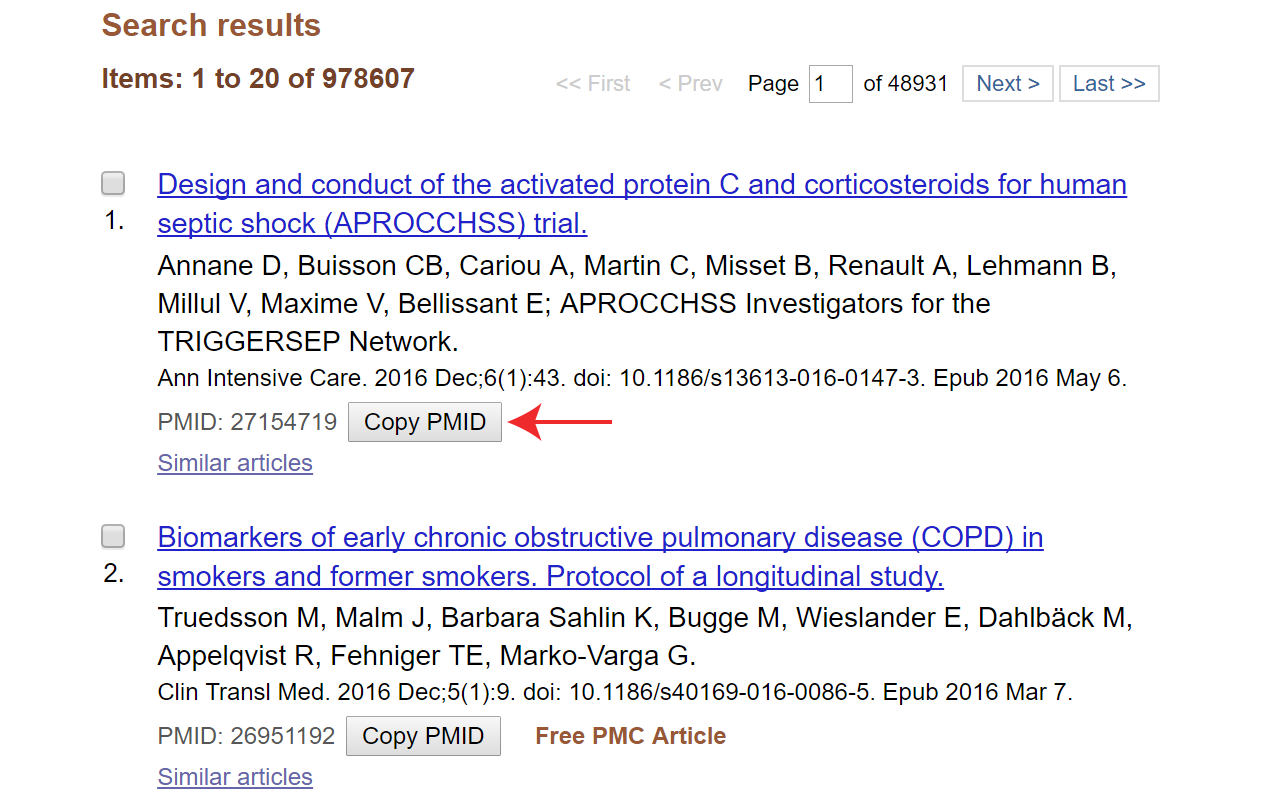
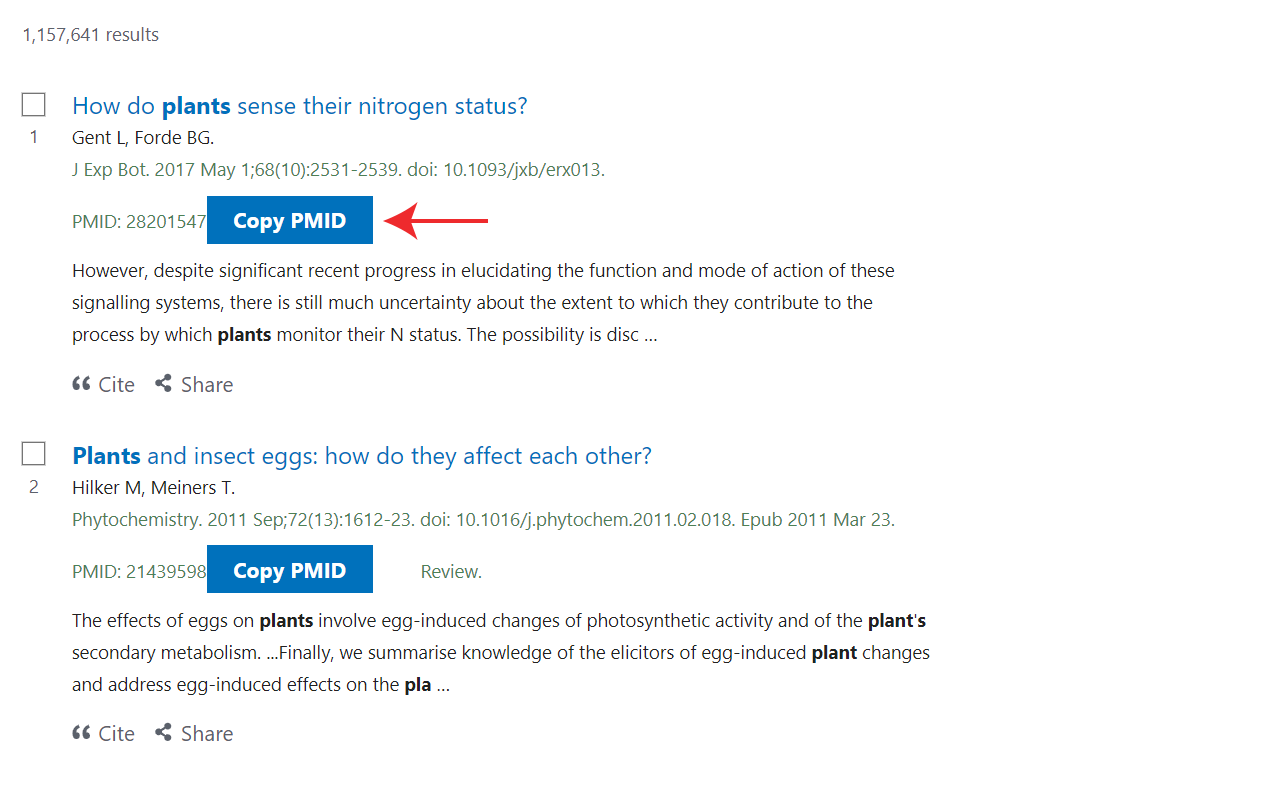
v1.3 update for PubMed refresh

diff --git a/Copy PMID extension/pmid_inject.js b/Copy PMID extension/pmid_inject.js
@@ -2,52 +2,60 @@
  * CopyPMID Chrome Extension
  * Copyright (c) 2012-2016 Tet Woo Lee
  * chrome at twlee dot nz
- * 
+ *
  * This program is free software: you can redistribute it and/or modify
  * it under the terms of the GNU General Public License as published by
  * the Free Software Foundation, either version 3 of the License, or
  * (at your option) any later version.
- * 
+ *
  * This program is distributed in the hope that it will be useful,
  * but WITHOUT ANY WARRANTY; without even the implied warranty of
  * MERCHANTABILITY or FITNESS FOR A PARTICULAR PURPOSE.  See the
  * GNU General Public License for more details.
- * 
+ *
  * You should have received a copy of the GNU General Public License
  * along with this program.  If not, see <http://www.gnu.org/licenses/>.
  */
-
 
 /*
  * Inject a 'Copy PMID' button to PubMed pages.
  */
 
-pmid_items = document.querySelectorAll(".resc:first-child .rprtid");
+pmid_items = Array.prototype.slice
+  .call(
+    document.querySelectorAll(".pubmed.identifier, .resc:first-child .rprtid")
+    // .pubmed.identifier -> Selector for new version 2020-05-29
+    // .resc:first-child .rprtid -> Selector for old version
+  )
+  .concat(
+    Array.prototype.slice
+      .call(document.querySelectorAll(".docsum-pmid"))
+      .map((x) => x.parentElement)
+  ); // .docsum-pmid parent -> Selector for lists new version 2020-05-29
 
 for (i = 0; i < pmid_items.length; i++) {
-    mybutton = document.createElement("button")
-    mybutton.innerText = "Copy PMID";
-    mybutton.id = "CopyPMID";
-    mybutton.name = "CopyPMID";
-    mybutton.className = "CopyPMID";
-    mybutton.type = "button"; // need this to stop it acting as a submit button
-    pmid_item = pmid_items[i];
-    pmid_item.appendChild(mybutton);
-    mybutton.onclick = (function (value) {
-        return function (event) {
-            buttonClicked(event, value)
-        };
-    })(pmid_item);
+  mybutton = document.createElement("button");
+  mybutton.innerText = "Copy PMID";
+  mybutton.id = "CopyPMID";
+  mybutton.name = "CopyPMID";
+  mybutton.className = "CopyPMID";
+  mybutton.type = "button"; // need this to stop it acting as a submit button
+  pmid_item = pmid_items[i];
+  pmid_item.appendChild(mybutton);
+  mybutton.onclick = (function (value) {
+    return function (event) {
+      buttonClicked(event, value);
+    };
+  })(pmid_item);
 }
 
-
 function buttonClicked(event, pmid_item) {
-    fullText = pmid_item.innerText;
-    pmid = pmid_item.children[1].innerText;
-    if (event.shiftKey || event.ctrlKey) // holding down shift and ctrl allows appending to clipboard
-        shouldAppend = true;
-    else
-        shouldAppend = false;
-    console.log("Got PMID " + pmid + " from text " + fullText);
-    chrome.extension.sendMessage({append: shouldAppend, text: pmid}); // copy to clipboard using background script
+  fullText = pmid_item.innerText;
+  pmid = fullText.replace(/pmid[^0-9]*([0-9]+).*/i, "$1");
+  if (event.shiftKey || event.ctrlKey)
+    // holding down shift and ctrl allows appending to clipboard
+    shouldAppend = true;
+  else shouldAppend = false;
+  console.log("Got PMID " + pmid + " from text " + fullText);
+  chrome.extension.sendMessage({ append: shouldAppend, text: pmid }); // copy to clipboard using background script
 }
